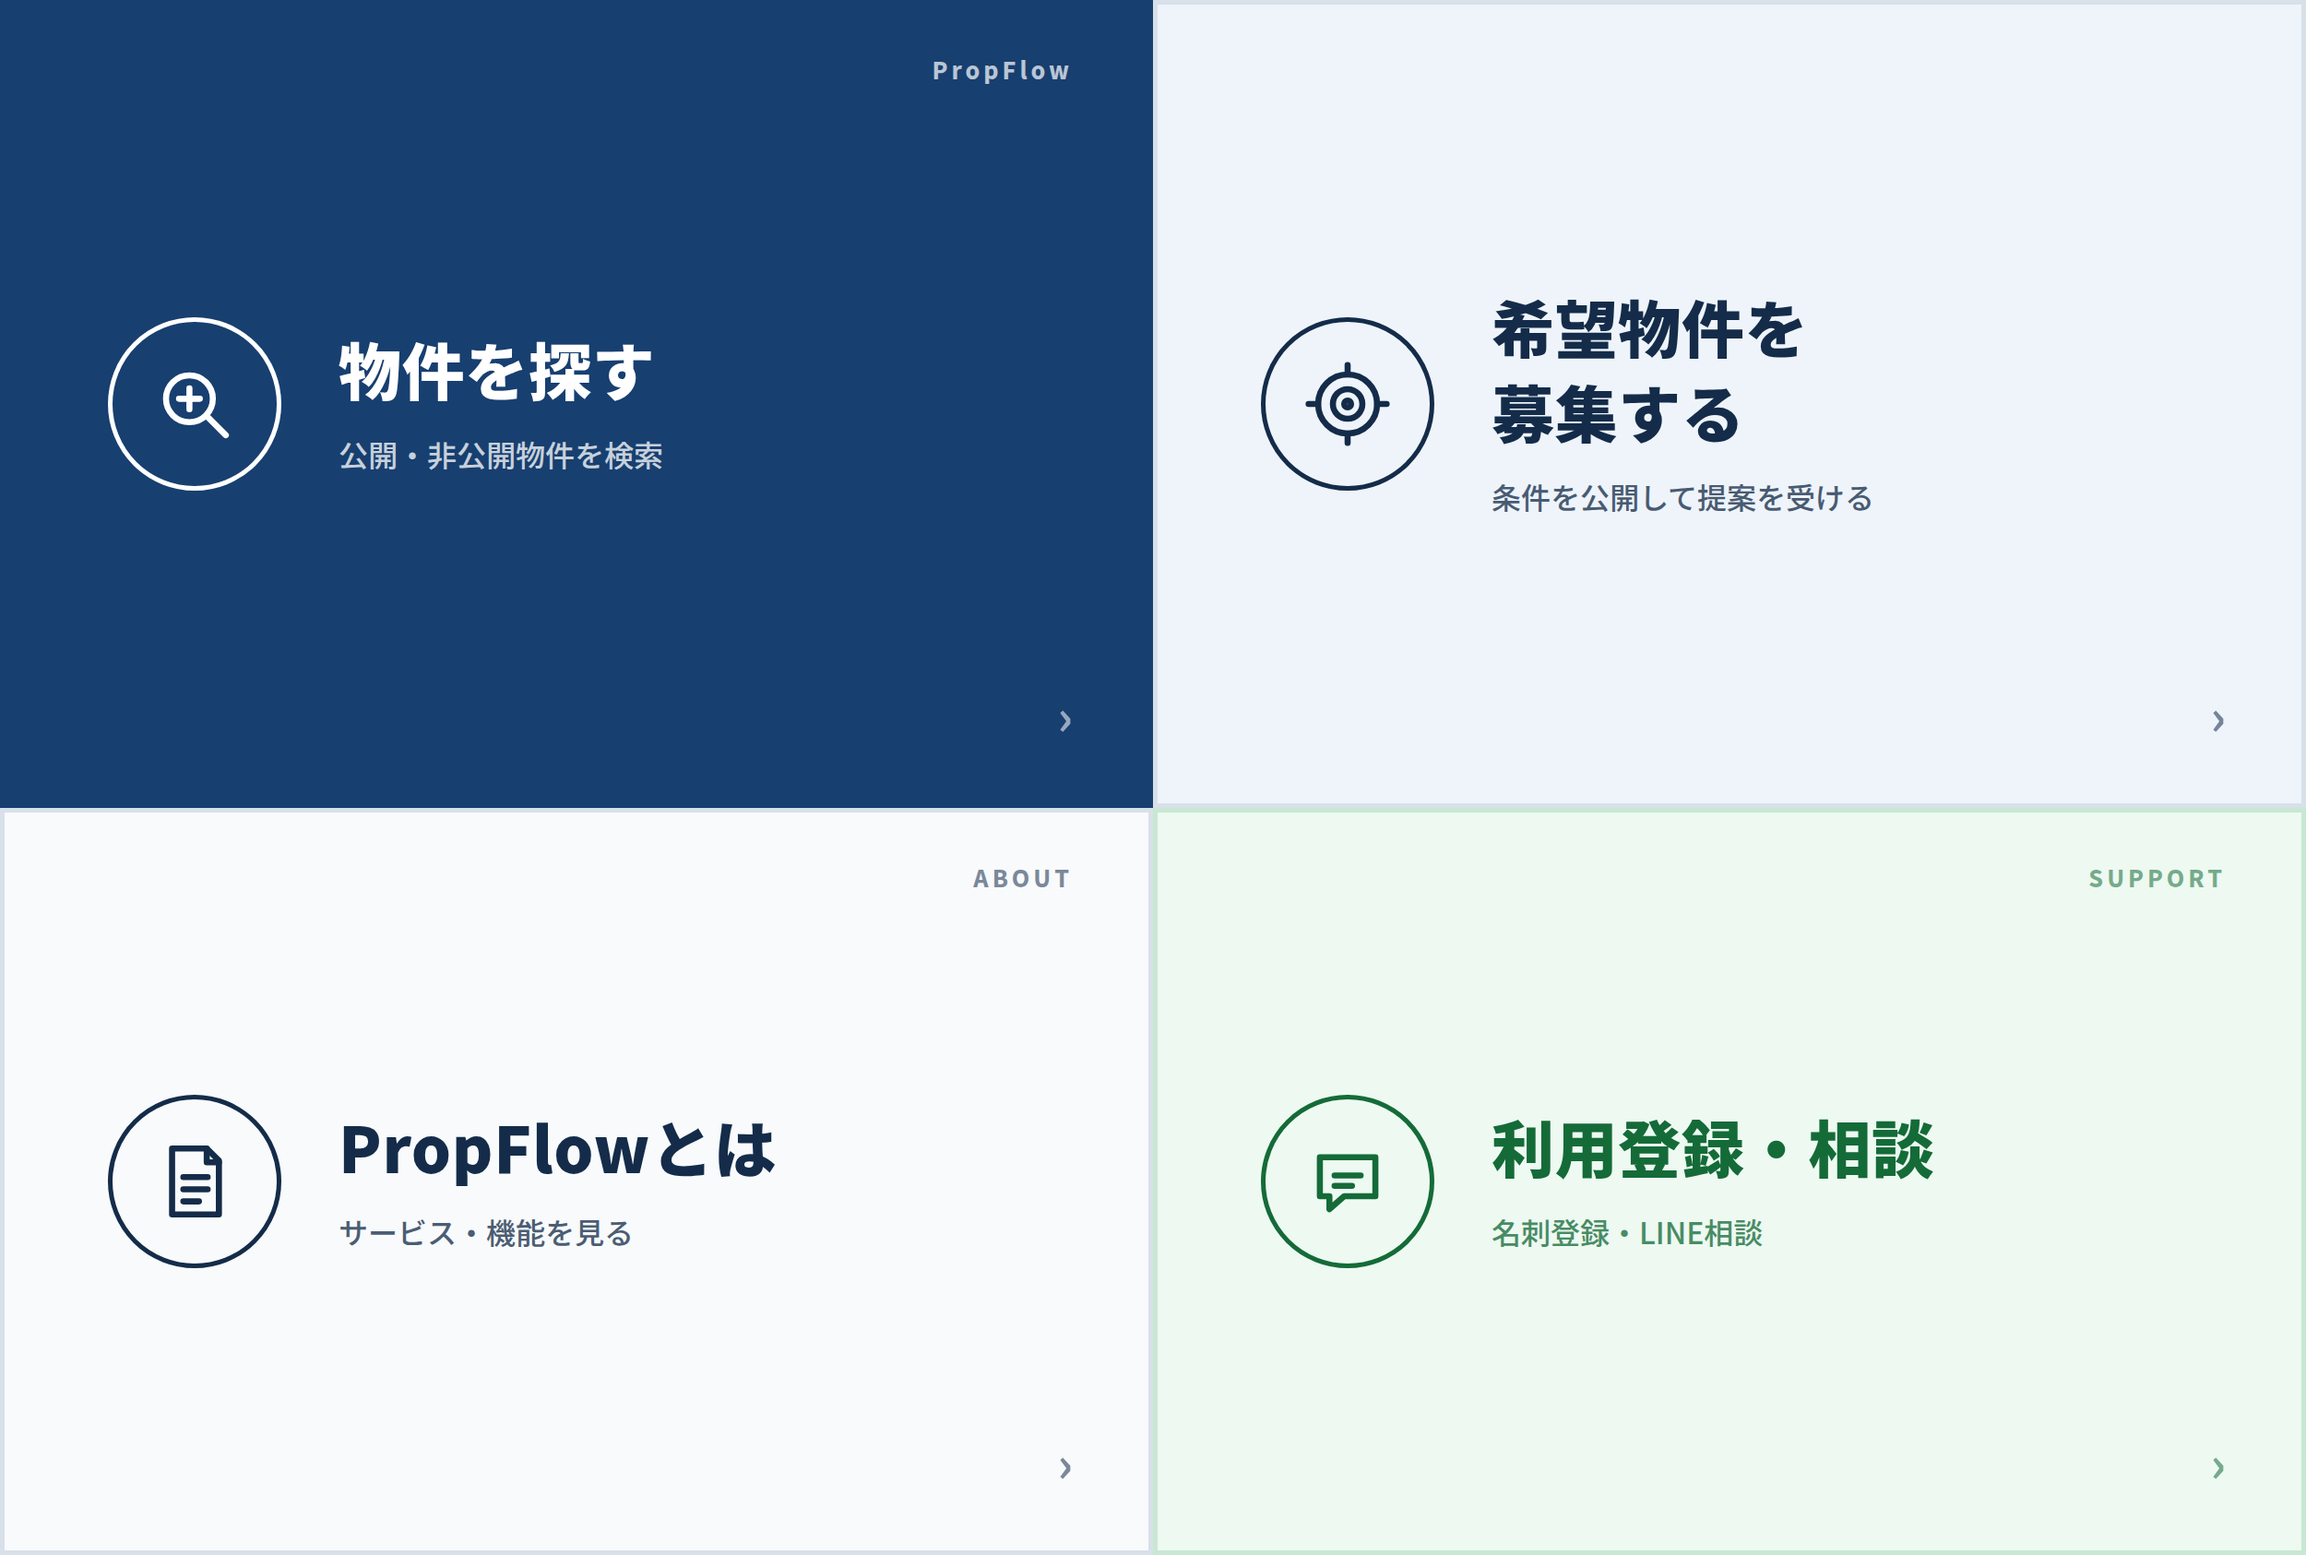
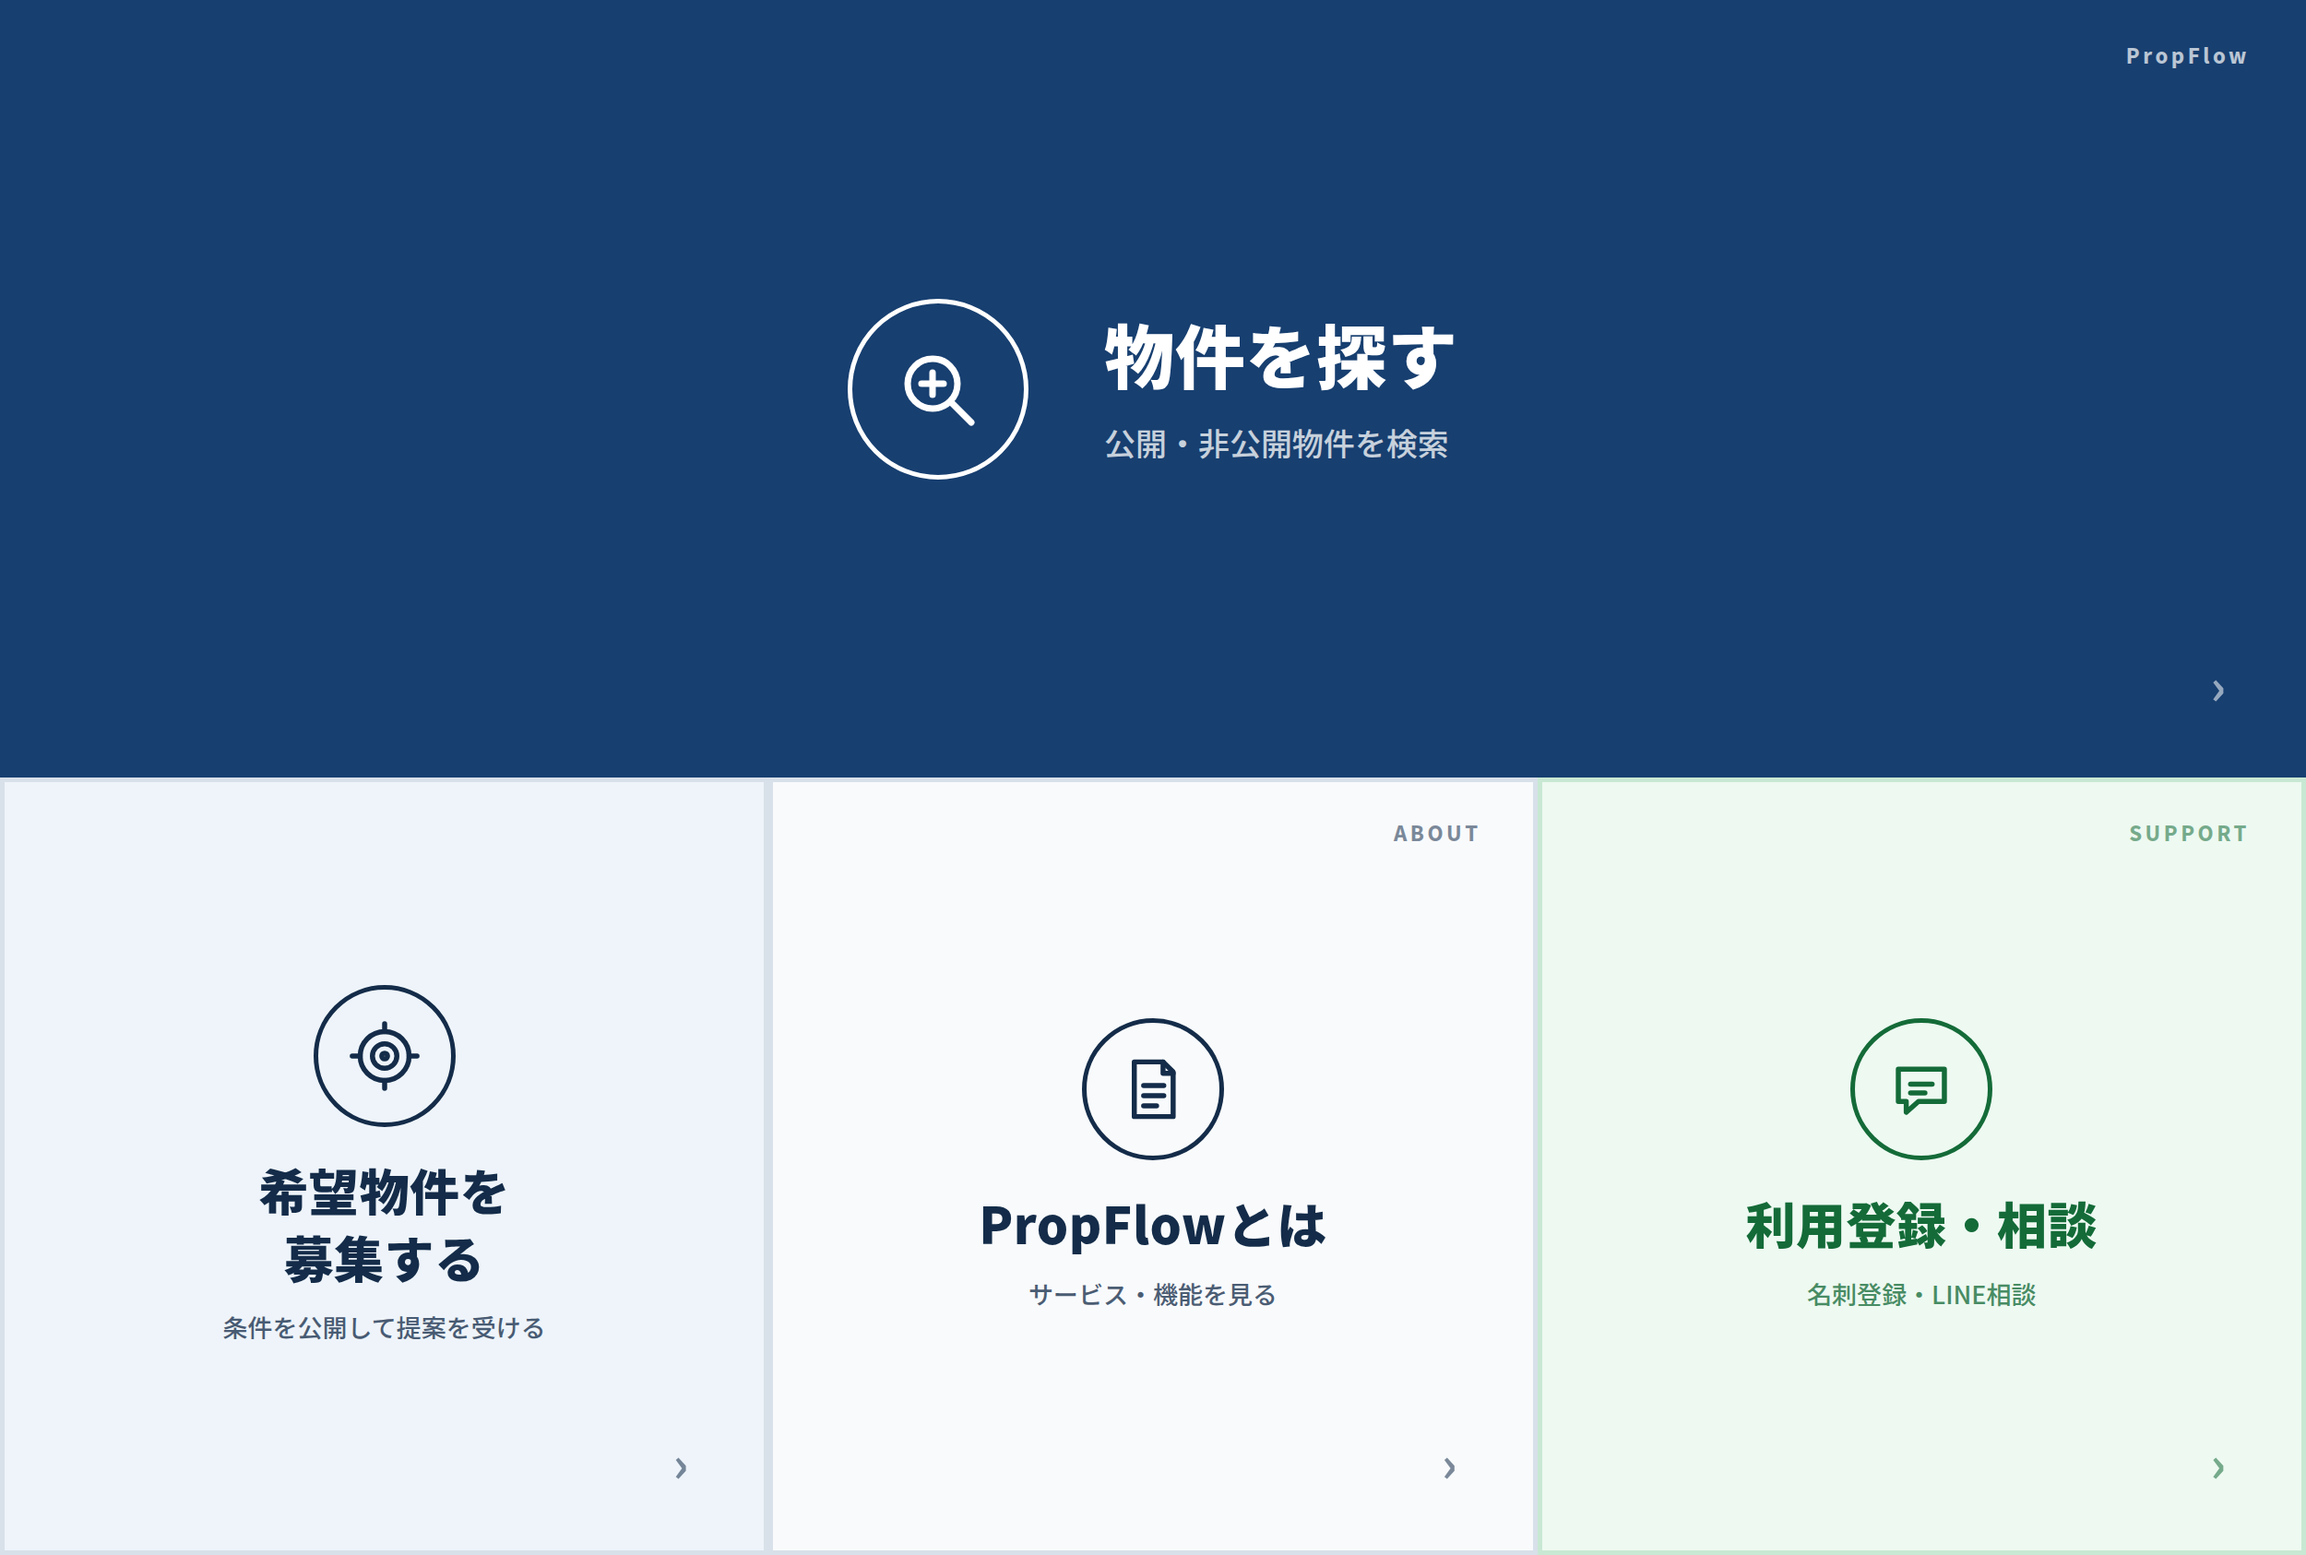
refine: prioritize property search in LINE menu

diff --git a/docs/line/rich-menu-propflow.html b/docs/line/rich-menu-propflow.html
@@ -4,18 +4,22 @@
 <meta charset="utf-8">
 <style>
 *{box-sizing:border-box}html,body{margin:0;width:2500px;height:1686px;overflow:hidden;background:#f4f6fa;font-family:"Noto Sans JP",sans-serif;color:#142c49}
-.menu{display:grid;grid-template-columns:1fr 1fr;width:2500px;height:1686px;background:#fff}
-.item{position:relative;display:flex;align-items:center;gap:62px;padding:90px 112px;border:5px solid #d8e0e9;background:#fff}
+.menu{display:grid;grid-template-columns:repeat(6,1fr);grid-template-rows:1fr 1fr;width:2500px;height:1686px;background:#fff}
+.item{position:relative;display:flex;flex-direction:column;align-items:center;justify-content:center;gap:34px;grid-column:span 2;padding:58px 42px;border:5px solid #d8e0e9;background:#fff;text-align:center}
+.item:first-child{grid-column:1/-1;flex-direction:row;gap:82px;padding:80px 180px;text-align:left}
 .item:nth-child(1){background:#173f70;color:#fff;border-color:#173f70}
 .item:nth-child(2){background:#eef4fa}
 .item:nth-child(3){background:#f8fafc}
 .item:nth-child(4){background:#edf9f1;border-color:#c8e8d3}
-.icon{display:grid;place-items:center;width:188px;height:188px;flex:0 0 188px;border:5px solid currentColor;border-radius:50%}
-.icon svg{width:94px;height:94px;fill:none;stroke:currentColor;stroke-width:7;stroke-linecap:round;stroke-linejoin:round}
-.label{font-size:68px;font-weight:900;letter-spacing:.01em;line-height:1.35}
-.sub{margin-top:20px;font-size:32px;font-weight:500;line-height:1.55;opacity:.76}
+.icon{display:grid;place-items:center;width:154px;height:154px;flex:0 0 154px;border:5px solid currentColor;border-radius:50%}
+.icon svg{width:78px;height:78px;fill:none;stroke:currentColor;stroke-width:7;stroke-linecap:round;stroke-linejoin:round}
+.item:first-child .icon{width:196px;height:196px;flex-basis:196px}.item:first-child .icon svg{width:100px;height:100px}
+.label{font-size:54px;font-weight:900;letter-spacing:.01em;line-height:1.35}
+.item:first-child .label{font-size:76px}
+.sub{margin-top:18px;font-size:27px;font-weight:500;line-height:1.55;opacity:.76}
+.item:first-child .sub{font-size:34px}
 .arrow{position:absolute;right:82px;bottom:64px;font-size:52px;font-weight:700;opacity:.55}
-.brand{position:absolute;right:82px;top:56px;font-size:25px;font-weight:800;letter-spacing:.16em;opacity:.55}
+.brand{position:absolute;right:56px;top:42px;font-size:22px;font-weight:800;letter-spacing:.16em;opacity:.55}
 .item:nth-child(1) .brand{opacity:.7}
 .item:nth-child(4){color:#146b38}
 </style>

diff --git a/docs/line/rich-menu-settings.md b/docs/line/rich-menu-settings.md
@@ -1,12 +1,12 @@
 # PropFlow公式LINE リッチメニュー設定
 
-画像サイズ：2500 × 1686px（2列 × 2行）
+画像サイズ：2500 × 1686px（上段1枠、下段3枠）
 
 | 位置 | 表示 | アクション |
 |---|---|---|
-| 左上 | 物件を探す | `https://propflow.jp/?utm_source=line&utm_medium=richmenu&utm_campaign=property_search` |
-| 右上 | 希望物件を募集する | `https://propflow.jp/v2/property-search?create=1&utm_source=line&utm_medium=richmenu&utm_campaign=request` |
-| 左下 | PropFlowとは | `https://propflow.jp/propflow-intro.html?utm_source=line&utm_medium=richmenu&utm_campaign=introduction` |
-| 右下 | 利用登録・相談 | LINEのテキスト送信アクション：「利用登録・相談を希望します」 |
+| 上段全面 | 物件を探す | `https://propflow.jp/?utm_source=line&utm_medium=richmenu&utm_campaign=property_search` |
+| 下段左 | 希望物件を募集する | `https://propflow.jp/v2/property-search?create=1&utm_source=line&utm_medium=richmenu&utm_campaign=request` |
+| 下段中央 | PropFlowとは | `https://propflow.jp/propflow-intro.html?utm_source=line&utm_medium=richmenu&utm_campaign=introduction` |
+| 下段右 | 利用登録・相談 | LINEのテキスト送信アクション：「利用登録・相談を希望します」 |
 
 未ログインで「希望物件を募集する」を押した場合は、ログイン画面を経由して利用します。
